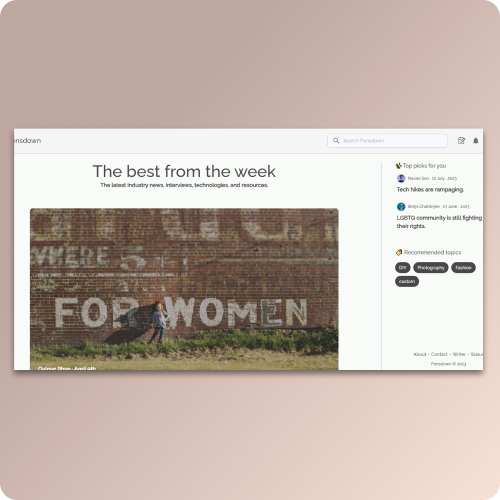
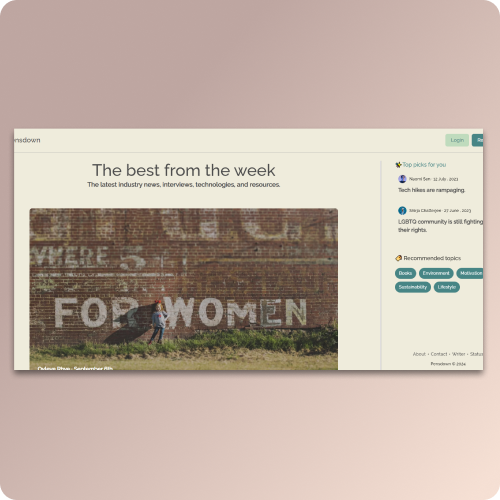
feat: background blobs

Changed region(s): [[0.03, 0.24, 0.99, 0.75], [0.15, 0.72, 0.24, 0.75], [0.3, 0.66, 0.33, 0.69]]

diff --git a/src/app/Home/Home.tsx b/src/app/Home/Home.tsx
@@ -2,12 +2,7 @@ import style from "./home.module.css";
 import { Card, CardContent, CardHeader, CardTitle } from "@/components/ui/card";
 import { cn } from "@/lib/utils";
 import Eyes from "@/components/standard/Eyes";
-import {
-  Tooltip,
-  TooltipProvider,
-  TooltipContent,
-  TooltipTrigger,
-} from "@radix-ui/react-tooltip";
+import { motion } from "framer-motion";
 import { useState } from "react";
 import { Button } from "@/components/ui/button";
 import { Shield } from "lucide-react";
@@ -15,11 +10,33 @@ import AnimateFrame from "@/layout/AnimateFrame";
 import { Helmet} from 'react-helmet-async';
 
 export default function Home() {
-  const [toggleIcon, setToggleIcon] = useState(true);
 
-  const handleChangeIcon = () => {
-    setToggleIcon(!toggleIcon);
+  const transitionSettings = {
+    type: "spring",
+    stiffness: 300,
+    damping: 40,
+    duration: 1,
   };
+
+
+
+  const pictureVariants = (x:number, y:number, rotate:number)=> ({
+    hidden: {
+      opacity: 0,
+      x: 0,
+      y: 0,
+      rotate: 0,
+      scale: 0.5,
+    },
+    visible: {
+      opacity: 1,
+      x: x,
+      y: y,
+      rotate: rotate,
+      scale: 1,
+      transition: transitionSettings,
+    },
+  });
 
   return (
     <div className={style.home}>
@@ -29,9 +46,14 @@ export default function Home() {
         <meta name="keywords" content="Soumya Sagar, Sagar, Portfolio, Software Developer, India" />
         <link rel="canonical" href="/" />
        </Helmet>
-      <div className={cn("red-blob absolute right-32 top-0", style.redBlob)}>
-        {/* <img src="greenBlob.png" style={{borderRadius:'55rem'}} width={'600px'}  alt="" /> */}
+      <div className="bgfilter">
       </div>
+
+      <div className="blob1  sm:left-[150px] left-[-350px]"></div>
+      
+      <div className="blob2 sm:left-[950px] left-[-350px] sm:top-[-80px] "></div>
+      
+      <div className="blob3 sm:top-[380px] sm:left-[800px] top-[400px] left-[80px]"></div>
 
       <div className="sanity-admin">
         <Button
@@ -53,51 +75,47 @@ export default function Home() {
       </div>
 
       <AnimateFrame>
-        <div className={cn("centralCard -translate-y-12", style.centralCard)}>
-          <div
+        <motion.div 
+         initial="hidden"
+         whileHover="visible"
+        className={cn("centralCard -translate-y-12", style.centralCard)}>
+          <motion.div
             className={cn(
-              "absolute -translate-y-32 -translate-x-28 -rotate-6",
+              "absolute",
               style.p1
             )}
+            variants={pictureVariants(-120, -130, -6)}
           >
             <img src="p1.png" width={210} alt="" />
-          </div>
+          </motion.div>
 
-          <div
-            className={cn(
-              " absolute -translate-y-40 translate-x-64 rotate-6",
-              style.p2
-            )}
+          <motion.div
+            className={cn("absolute", style.p2)}
+        variants={pictureVariants(280, -150, 6)}
           >
             <img src="p2.png" width={210} alt="" />
-          </div>
+          </motion.div>
 
-          <div
-            className={cn(
-              " absolute translate-y-40 translate-x-96 rotate-6",
-              style.p4
-            )}
+          <motion.div
+            className={cn("absolute", style.p4)}
+            variants={pictureVariants(360, 180, 6)}
           >
             <img src="p4.png" width={210} alt="" />
-          </div>
+          </motion.div>
 
-          <div
-            className={cn(
-              "absolute translate-y-40 -translate-x-44 rotate-2 ",
-              style.p3
-            )}
+          <motion.div
+             className={cn("absolute", style.p3)}
+             variants={pictureVariants(-160, 150, 2)}
           >
             <img src="p3.png" width={210} alt="" />
-          </div>
+          </motion.div>
 
-          <div
-            className={cn(
-              "absolute translate-y-52 translate-x-28 -rotate-2",
-              style.p3
-            )}
+          <motion.div
+             className={cn("absolute", style.p5)}
+             variants={pictureVariants(100, 200, -2)}
           >
             <img src="p5.png" width={210} alt="" />
-          </div>
+          </motion.div>
           <Card
             className={cn(
               "p-6 backdrop-filter bg-opacity backdrop-blur-2xl border rounded-3xl bg-opacity-60  bg-[#1D1E1D] border-[#363736] pt-4 text-white",
@@ -149,7 +167,7 @@ export default function Home() {
               </div>
             </CardContent>
           </Card>
-        </div>
+        </motion.div>
       </AnimateFrame>
     </div>
   );

diff --git a/src/App.css b/src/App.css
@@ -114,3 +114,69 @@ body{
 *::selection {
   color: rgb(216, 210, 143)
 }
+
+.blob1 {
+  border-radius: 50%;
+  width: 640px;
+  height: 75%;
+  position: fixed;
+
+  top: -240px;
+  z-index: -2;
+
+  /* needs to be very contrasty color. E.g. light gray on white won't work */
+
+  background-image: radial-gradient(circle, rgba(225, 76, 76, 0.6) 20%,rgba(225, 76, 76, 0.4) 20%,rgba(225, 76, 76, 0.3) 30%,rgba(225, 76, 76, 0.2) 30%);
+  -webkit-filter: blur(65px);
+  opacity: 0.2;
+  filter: blur(65px);
+}
+
+.blob2 {
+  border-radius: 50%;
+  width: 500px;
+  height: 75%;
+  position: fixed;
+
+  z-index: -2;
+
+  /* needs to be very contrasty color. E.g. light gray on white won't work */
+
+  background-image: radial-gradient(circle, rgba(46, 140, 203, 0.6) 20%,rgba(46, 140, 203, 0.4) 10%,rgba(46, 140, 203, 0.3) 40%,rgba(46, 140, 203, 0.2) 30%);
+  -webkit-filter: blur(85px);
+  opacity: 0.15;
+  filter: blur(85px);
+}
+
+.blob3 {
+  border-radius: 50%;
+  width: 500px;
+  height: 75%;
+  position: fixed;
+
+  z-index: -2;
+
+  /* needs to be very contrasty color. E.g. light gray on white won't work */
+
+  background-image: radial-gradient(circle, rgba(239, 246, 48, 0.6) 20%,rgba(239, 246, 48, 0.4) 10%,rgba(239, 246, 48, 0.3) 40%,rgba(239, 246, 48, 0.2) 30%);
+  -webkit-filter: blur(85px);
+  opacity: 0.15;
+  filter: blur(85px);
+  backdrop-filter: blur(160px);
+}
+
+.bgfilter{
+
+  position: fixed;
+  top: 0;
+  left: 0;
+  width: 100%;
+  height: 100%;
+
+  z-index: -1;
+
+  background: rgba( 255, 255, 255, 0 );
+backdrop-filter: blur( 50px );
+-webkit-backdrop-filter: blur( 50px );
+border-radius: 10px;
+}

diff --git a/src/app/Home/home.module.css b/src/app/Home/home.module.css
@@ -12,8 +12,8 @@
         width: 300px;
         height: 300px;
         border-radius: 50%;
-        background: radial-gradient(circle, red, black); /* Radial gradient from red to black */
-        filter: blur(250px); /* Blur effect */
+        background: radial-gradient(circle, red, black); 
+        filter: blur(250px);
     
 }
 
